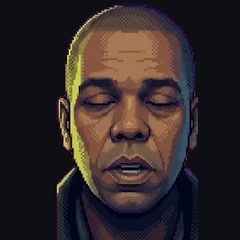
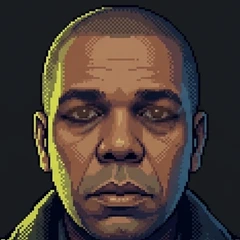
Retrato novo do Guilherme: só olhos e boca mexem
Claude-Session: https://claude.ai/code/session_01EDVf1EFUhdHmvNwVV18pfV

diff --git a/sw.js b/sw.js
@@ -1,4 +1,4 @@
-const V='pecados-v4';
+const V='pecados-v5';
 const FILES=["./", "index.html", "manifest.webmanifest", "icon-192.png", "icon-512.png", "apple-touch-icon.png", "batidas.mp3", "bau.mp3", "bauaberto.webp", "cafe.mp3", "capela.mp3", "capeladentro.webp", "capelafora.webp", "casa-vo.mp3", "casafora.webp", "chuva-dentro.mp3", "chuva.mp3", "dano.mp3", "degrau.mp3", "delegacia.mp3", "delegacia.webp", "g_legL.webp", "g_legR.webp", "g_torso.webp", "gia0.webp", "gia1.webp", "gia2.webp", "gia3.webp", "gia4.webp", "gia5.webp", "gib0.webp", "gib1.webp", "gib2.webp", "gib3.webp", "gib4.webp", "gib5.webp", "gib6.webp", "gic0.webp", "gic1.webp", "gic2.webp", "gic3.webp", "gic4.webp", "gic5.webp", "gic6.webp", "guilherme.webp", "gw0.webp", "gw1.webp", "gw2.webp", "gw3.webp", "gw4.webp", "gw5.webp", "helena.webp", "i_bilhete.webp", "i_corda.webp", "i_dinheiro.webp", "i_ficha.webp", "i_isqueiro.webp", "i_nota.webp", "i_petisco.webp", "i_vela.webp", "i_velaacesa.webp", "isqueiro.mp3", "izabel.webp", "latido.mp3", "marlene.webp", "musica.mp3", "nathalia.webp", "nori0.webp", "nori1.webp", "nori2.webp", "ns0.webp", "ns1.webp", "ns2.webp", "ns3.webp", "p_guilherme.webp", "p_helena.webp", "p_izabel.webp", "p_marlene.webp", "p_nathalia.webp", "p_pedro.webp", "p_plantonista.webp", "p_sarah.webp", "parede.webp", "passos-madeira.mp3", "passos-rua.mp3", "pd0.webp", "pd1.webp", "pd2.webp", "pd3.webp", "pd4.webp", "pd5.webp", "pedro.webp", "pegar.mp3", "pg0.webp", "pg1.webp", "pg2.webp", "pg3.webp", "pg4.webp", "pg5.webp", "pista.mp3", "plantonista.webp", "porao.mp3", "porao.webp", "porta.mp3", "portao.mp3", "praia.mp3", "redacao.mp3", "redacao.webp", "rosnado.mp3", "rua.webp", "sala.webp", "sala_raio.webp", "sarah.webp", "sebo.webp", "sino.mp3", "sussurros.mp3", "susto.mp3", "taxi.mp3", "telefone.mp3", "tiana0.webp", "tiana1.webp", "tiana2.webp"];
 self.addEventListener('install',e=>{e.waitUntil(caches.open(V).then(c=>c.addAll(FILES)).then(()=>self.skipWaiting()))});
 self.addEventListener('activate',e=>{e.waitUntil(caches.keys().then(ks=>Promise.all(ks.filter(k=>k!==V).map(k=>caches.delete(k)))).then(()=>self.clients.claim()))});

diff --git a/index.html b/index.html
@@ -553,11 +553,11 @@ const ANIMS={
 async function runAnim(el){await sleep(Math.random()*1200);while(el.isConnected){for(const [f,ms] of ANIMS[el._anim].seq()){if(!el.isConnected)return;el.src=IMG(el._hold||f);await sleep(ms)}}}
 ['izabel','helena','sala_raio','ns0','ns1','ns2','ns3','pd0','pd1','pd2','pd3','pd4','pd5'].forEach(n=>{const im=new Image();im.src=IMG(n)});
 /* retratos animados */
-const PORT={guilherme:{base:'pg0',blink:['pg1','pg4','pg1'],talk:['pg2','pg0','pg3','pg2','pg0']}};
+const PORT={guilherme:{base:'pg0',blink:['pg1'],talk:['pg2','pg3','pg2','pg0','pg3','pg2','pg0']}};
 Object.values(PORT).forEach(p=>[p.base,...p.blink,...p.talk].forEach(n=>{const im=new Image();im.src=IMG(n)}));
 function portAnim(who,txt){const P=PORT[who];if(!P)return()=>{};const el=$('#por');let alive=true;const set=n=>{if(alive)el.style.backgroundImage=`url(${IMG(n)})`};
   (async()=>{await sleep(30);const end=performance.now()+Math.min(3200,txt.length*48);let i=0;while(alive&&performance.now()<end){set(P.talk[i++%P.talk.length]);await sleep(140)}set(P.base);
-    while(alive){await sleep(2200+Math.random()*2800);if(!alive)break;for(const f of P.blink){set(f);await sleep(70)}set(P.base)}})();
+    while(alive){await sleep(2200+Math.random()*2800);if(!alive)break;for(const f of P.blink){set(f);await sleep(120)}set(P.base)}})();
   return()=>{alive=false}}
 /* Guilherme parado: gestos */
 const GANC={gia:.535,gib:.578,gic:.571};let gTok=0;
